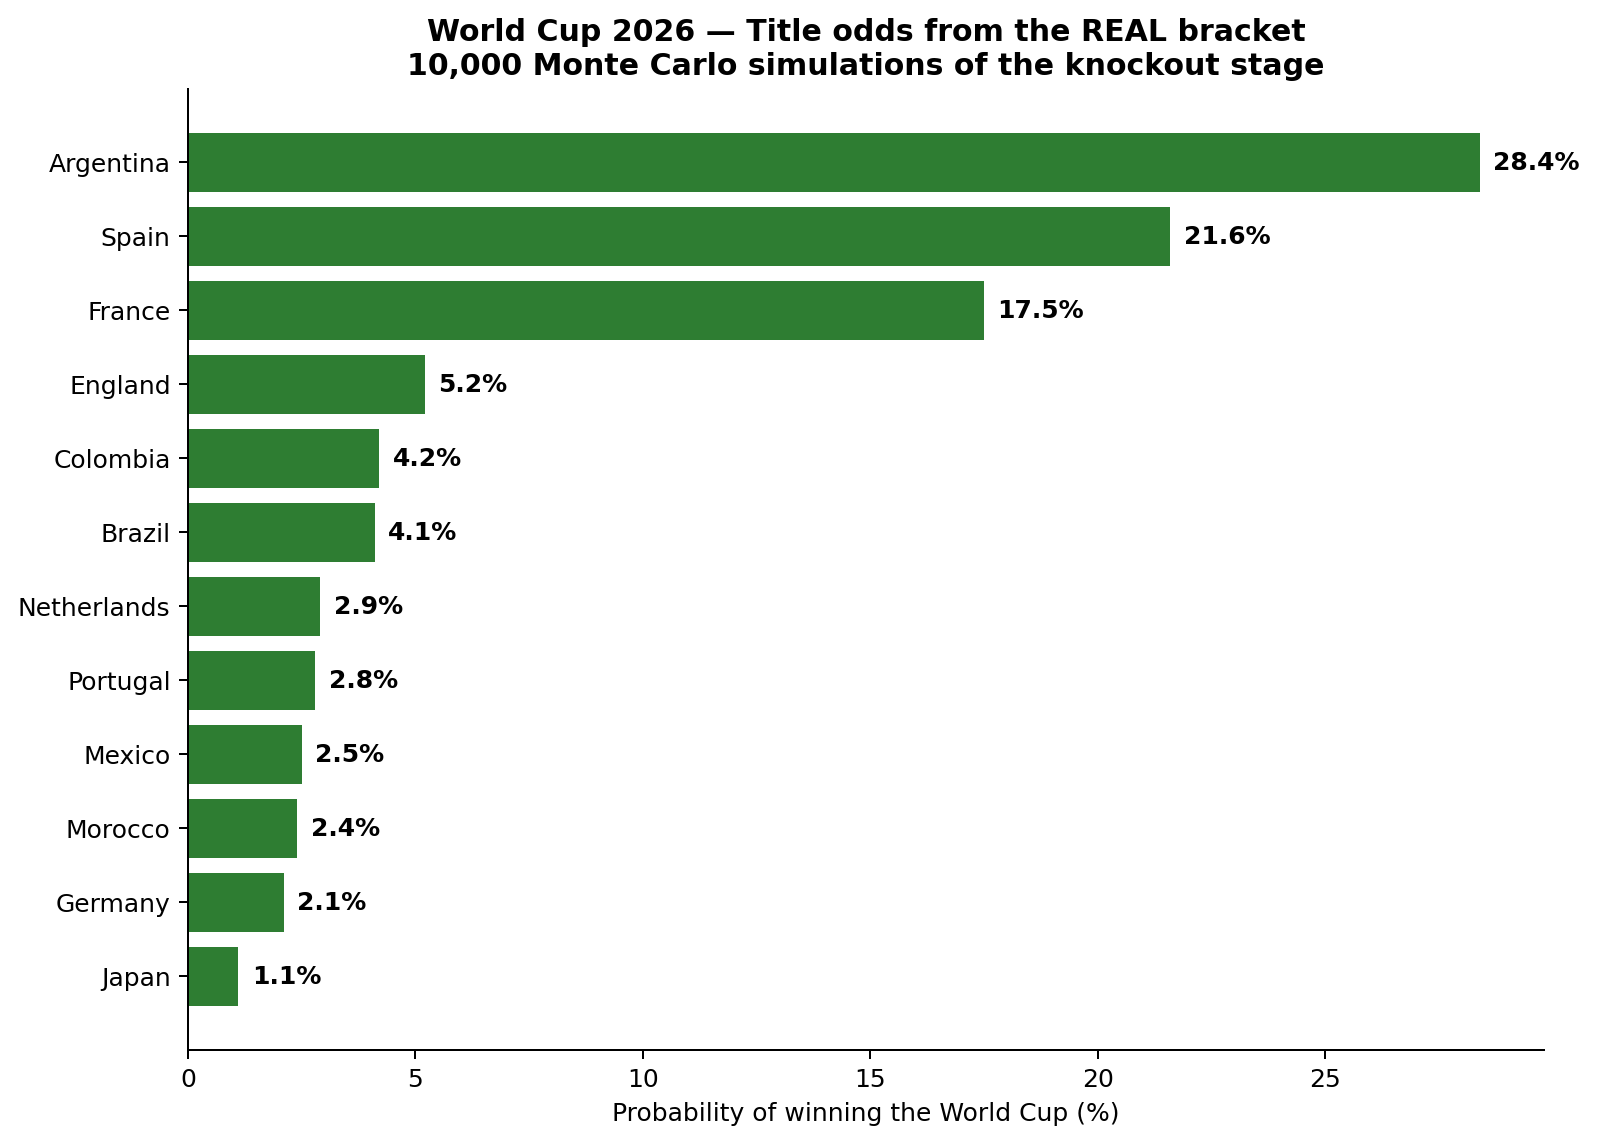
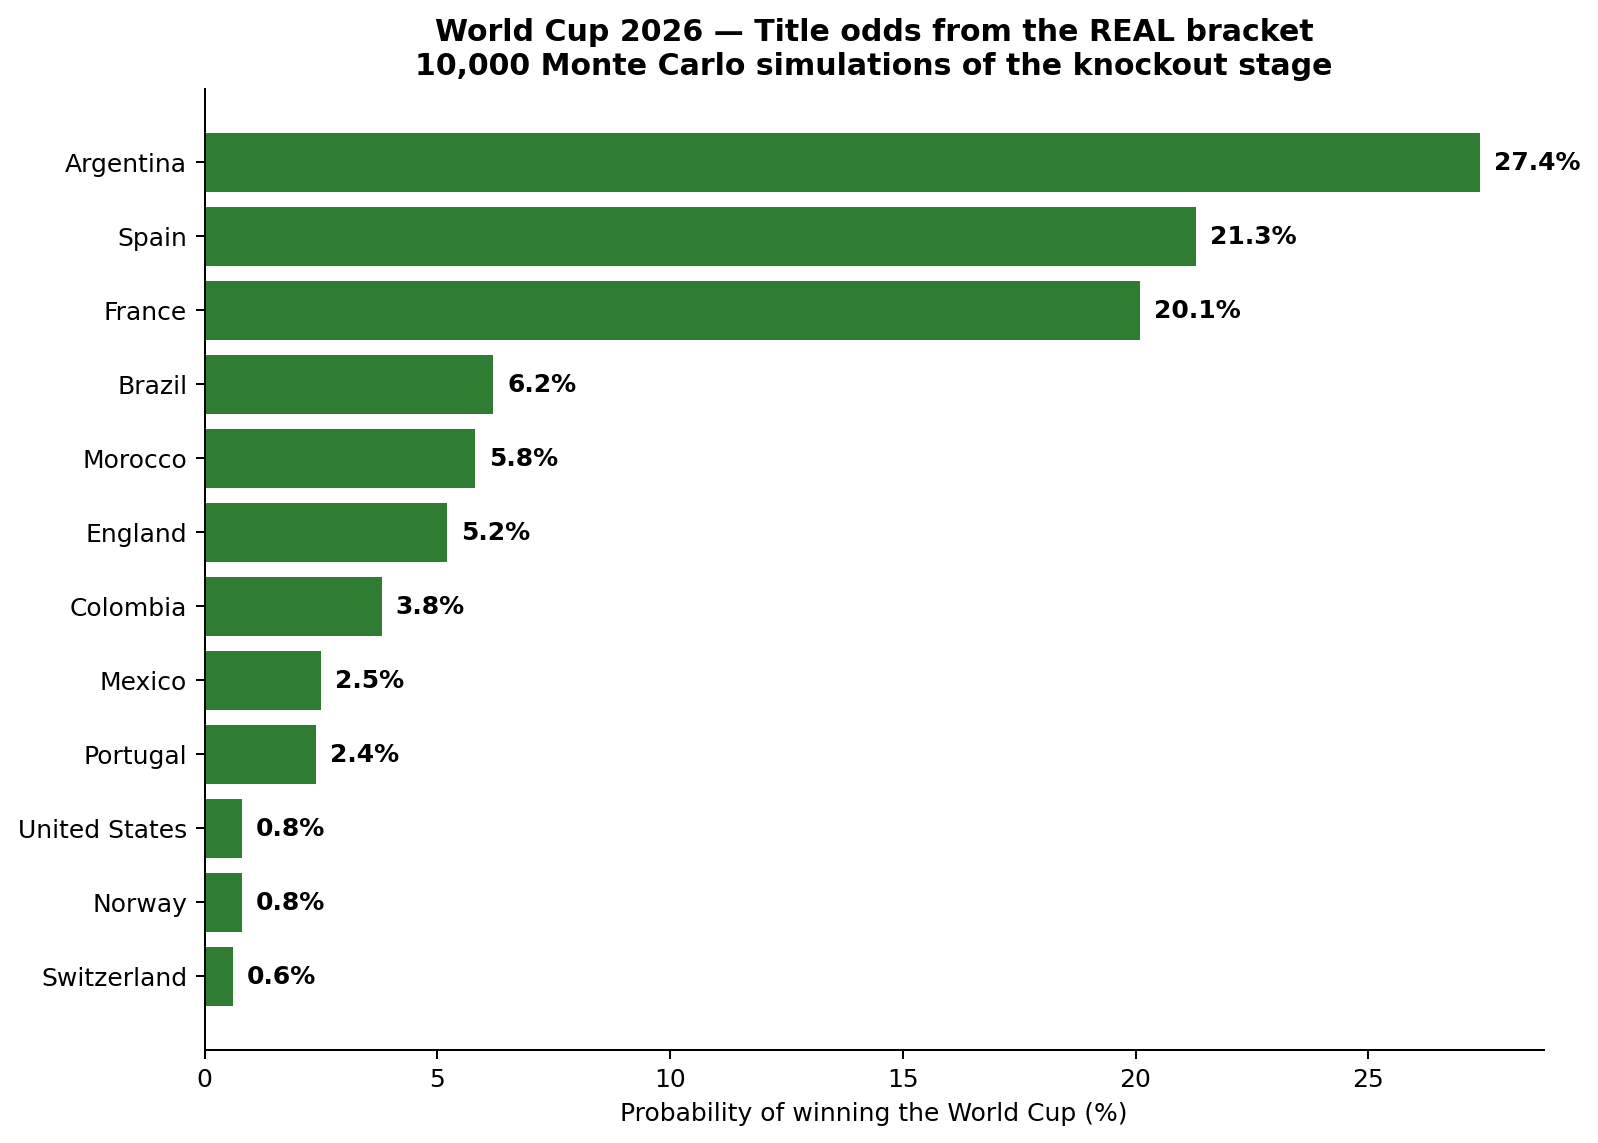
Handle penalty results in knockout (advanced column): Paraguay & Morocco upsets registered

diff --git a/src/simulate_knockout.py b/src/simulate_knockout.py
@@ -47,8 +47,10 @@ def main():
     with open("data/processed/poisson_params.json") as f:
         P = json.load(f)["neutral"]
     bracket = pd.read_csv("data/knockout_bracket.csv")
-    played = {(r.team1, r.team2): (r.home_score, r.away_score)
-              for r in bracket.itertuples(index=False) if pd.notna(r.home_score)}
+    # Played ties → the team that actually advanced (penalties included)
+    advanced = {(r.team1, r.team2): r.advanced
+                for r in bracket.itertuples(index=False)
+                if "advanced" in bracket.columns and pd.notna(r.advanced)}
 
     def lambdas(t1, t2):
         d = (elo.get(t1, 1500) - elo.get(t2, 1500)) / 400
@@ -57,11 +59,8 @@ def main():
 
     def play_tie(t1, t2):
         """Return the winner of a single knockout tie."""
-        if (t1, t2) in played:
-            hs, as_ = played[(t1, t2)]
-            if hs != as_:
-                return t1 if hs > as_ else t2
-            # real draw recorded → decided by ET/pens
+        if (t1, t2) in advanced:
+            return advanced[(t1, t2)]  # already played (penalties included)
         l1, l2 = lambdas(t1, t2)
         g1, g2 = rng.poisson(l1), rng.poisson(l2)
         if g1 != g2:
@@ -98,10 +97,8 @@ def main():
 
     # ── Deterministic "most likely bracket" (favorite advances each tie) ──
     def fav(t1, t2):
-        if (t1, t2) in played:
-            hs, as_ = played[(t1, t2)]
-            if hs != as_:
-                return t1 if hs > as_ else t2
+        if (t1, t2) in advanced:
+            return advanced[(t1, t2)]
         l1, l2 = lambdas(t1, t2)
         n = 11
         M = np.outer([poisson_pmf(i, l1) for i in range(n)], [poisson_pmf(j, l2) for j in range(n)])
@@ -139,11 +136,11 @@ def main():
     print("Saved knockout_champion_odds.png")
 
     # ── Bracket image (real matchups, winners of the most-likely path highlighted) ──
-    draw_bracket_image(path, champion, played)
+    draw_bracket_image(path, champion)
     print("Saved knockout_bracket.png")
 
 
-def draw_bracket_image(path, champion, played):
+def draw_bracket_image(path, champion):
     import matplotlib
     matplotlib.use("Agg")
     import matplotlib.pyplot as plt
@@ -157,14 +154,6 @@ def draw_bracket_image(path, champion, played):
     n32 = len(path["R32"])
     ax.set_ylim(-1, n32 * 1.05)
     BOX_W, BOX_H, GAP = 0.92, 0.78, 1.05
-
-    def winner_of(tie):
-        a, b = tie
-        if (a, b) in played:
-            hs, as_ = played[(a, b)]
-            if hs != as_:
-                return a if hs > as_ else b
-        return None  # decided downstream; we highlight via next-round membership
 
     # y-position of each tie per round (centered over its feeders)
     ypos = {}

diff --git a/src/predict_knockout.py b/src/predict_knockout.py
@@ -54,6 +54,7 @@ def main():
         i, j = np.unravel_index(M.argmax(), M.shape)
 
         played = pd.notna(m.home_score)
+        advanced = m.advanced if "advanced" in bracket.columns and pd.notna(m.advanced) else None
         rows.append({
             "match_id": m.match_id, "round": m.round, "team1": t1, "team2": t2,
             "kickoff_spain": m.kickoff_spain,
@@ -62,6 +63,7 @@ def main():
             "favorite": t1 if p1_adv >= 0.5 else t2,
             "home_score": int(m.home_score) if played else None,
             "away_score": int(m.away_score) if played else None,
+            "advanced": advanced,
         })
 
     df = pd.DataFrame(rows)
@@ -71,9 +73,8 @@ def main():
     for r in df.itertuples(index=False):
         played = ""
         if pd.notna(r.home_score):
-            res = "✅" if ((r.home_score > r.away_score and r.favorite == r.team1) or
-                          (r.away_score > r.home_score and r.favorite == r.team2)) else "❌"
-            played = f"  [played {r.home_score}-{r.away_score} {res}]"
+            res = "✅" if r.advanced == r.favorite else "❌"
+            played = f"  [played {int(r.home_score)}-{int(r.away_score)}, {r.advanced} through {res}]"
         print(f"{r.team1} vs {r.team2}: {r.favorite} advances {max(r.p_team1_adv, r.p_team2_adv):.0f}% "
               f"(pred {r.pred_score}){played}")
 

diff --git a/dashboard/app.py b/dashboard/app.py
@@ -348,9 +348,11 @@ with tab_bracket:
                     left.caption(f"{ko_time}Model: {m['favorite']} advances ({fav_p:.0f}%) · predicted {m['pred_score']}")
                     if played:
                         hs, as_ = int(m["home_score"]), int(m["away_score"])
-                        winner = m["team1"] if hs > as_ else (m["team2"] if as_ > hs else "draw/pens")
-                        ok = "✅" if winner == m["favorite"] else ("➖" if winner == "draw/pens" else "❌")
+                        adv = m.get("advanced")
+                        ok = "✅" if adv == m["favorite"] else "❌"
+                        pens = " (pens)" if hs == as_ else ""
                         right.markdown(f"### {hs} - {as_} {ok}")
+                        right.caption(f"{adv} advanced{pens}")
                     else:
                         right.markdown(probability_bar(round(m["p_team1_adv"], 0), 0, round(m["p_team2_adv"], 0)),
                                        unsafe_allow_html=True)
